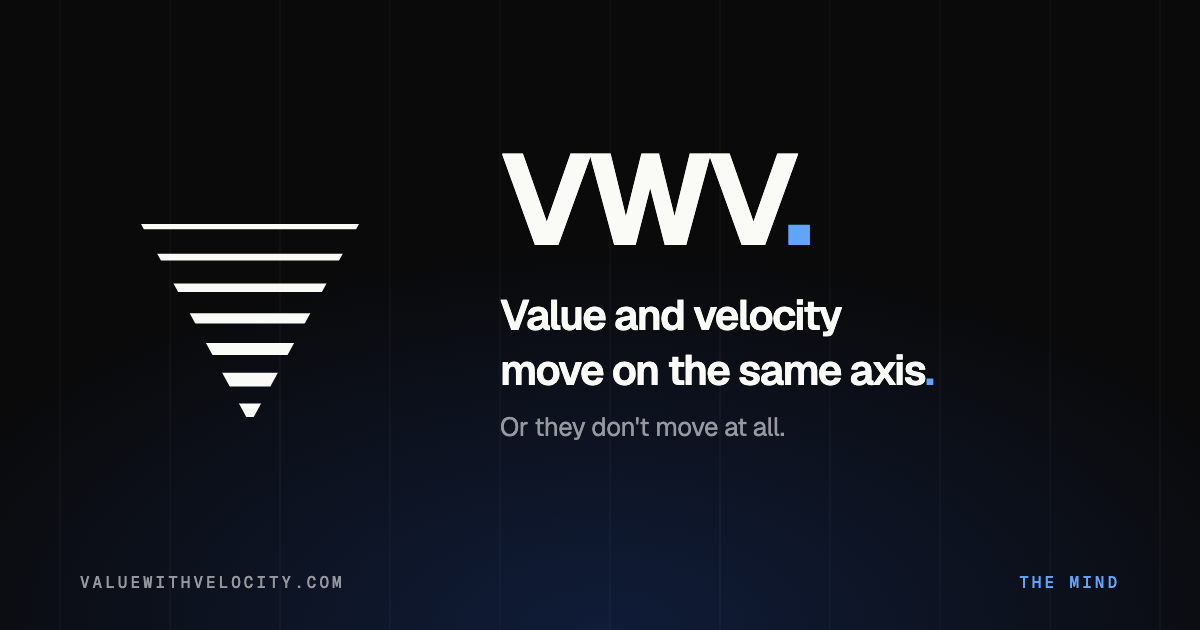
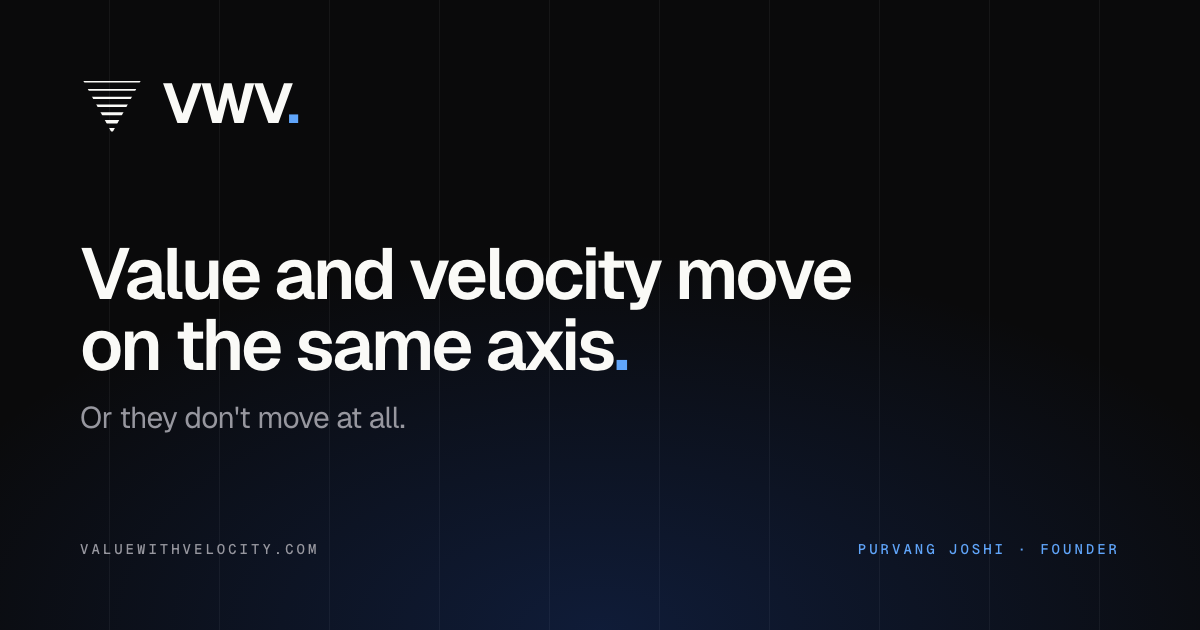
og + copy: rebuild OG with tight alignment, drop Mind/Muscle from public copy
OG image
  Re-rendered the 1200x630 OG card using a flexbox HTML layout instead
  of hand-positioned SVG. Now the brand row, manifesto block, and
  footer line up on a single column edge at exactly 80px gutter. The
  V mark and 'VWV.' wordmark share a baseline. The manifesto is
  vertically centred between brand and footer.

  Removed the 'THE MIND' label in the footer-right corner. Replaced
  with 'Purvang Joshi · Founder' so the card signs the manifesto
  without internal nomenclature.

Public copy
  Per the brand voice guidelines, 'The Mind' and 'The Muscle' are
  internal shorthand only. Stripped them from:
    - Footer cross-link card ('The Muscle. Productized sprints…' ->
      'Productized sprints, on your premises. AI automation, KPI
      dashboard at close-out.')
    - Cta section eyebrow ('From the Mind to the Muscle' ->
      'Bridge to the agency')
  Internal brand vocabulary stays in brand/brand-voice-guidelines.md.

diff --git a/src/components/Footer.tsx b/src/components/Footer.tsx
@@ -35,9 +35,9 @@ export function Footer() {
             </ul>
           </div>
 
-          {/* The Muscle */}
+          {/* Cross-link to agency */}
           <div className="lg:col-span-4">
-            <p className="eyebrow mb-4">The other surface</p>
+            <p className="eyebrow mb-4">Want it shipped, not just read?</p>
             <a
               href="https://vwv.agency"
               className="group block rounded-lg border border-[color:var(--color-border-subtle)] hover:border-[color:var(--color-accent)] p-5 transition-colors"
@@ -46,7 +46,7 @@ export function Footer() {
                 vwv.agency
               </p>
               <p className="mt-1 text-sm text-[color:var(--color-text-secondary)]">
-                The Muscle. Productized sprints, fixed price, fixed timebox.
+                Productized sprints, on your premises. AI automation, KPI dashboard at close-out.
               </p>
               <span className="mt-3 inline-flex items-center gap-1.5 text-xs font-medium text-[color:var(--color-accent)]">
                 Visit

diff --git a/src/sections/Cta.tsx b/src/sections/Cta.tsx
@@ -93,7 +93,7 @@ export function Cta() {
             04
           </span>
           <span className="h-px w-12 bg-[color:var(--color-border)]" />
-          <p className="eyebrow">From the Mind to the Muscle</p>
+          <p className="eyebrow">Bridge to the agency</p>
         </div>
 
         <h2 className="font-display font-semibold tracking-tightest leading-[0.95] text-[color:var(--color-text-primary)] text-[clamp(2.75rem,8vw,7rem)] text-balance max-w-5xl">
